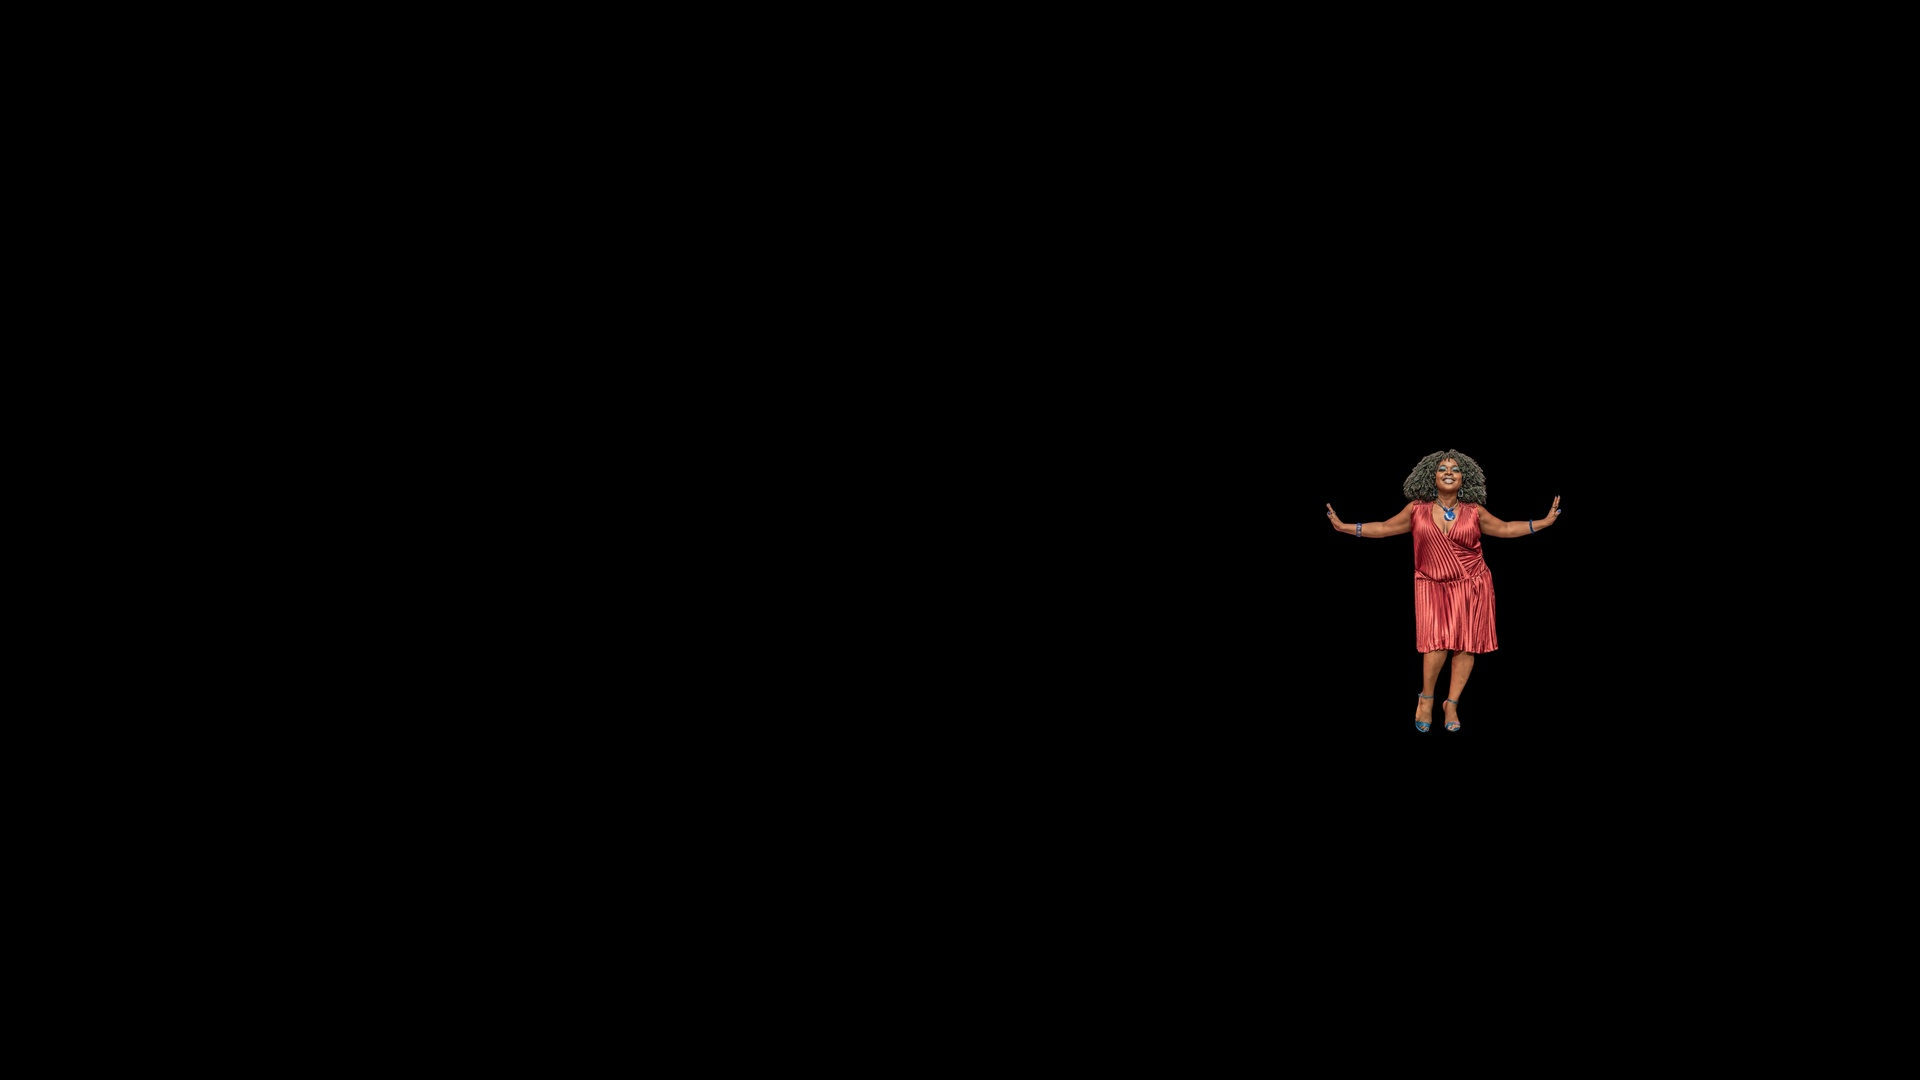
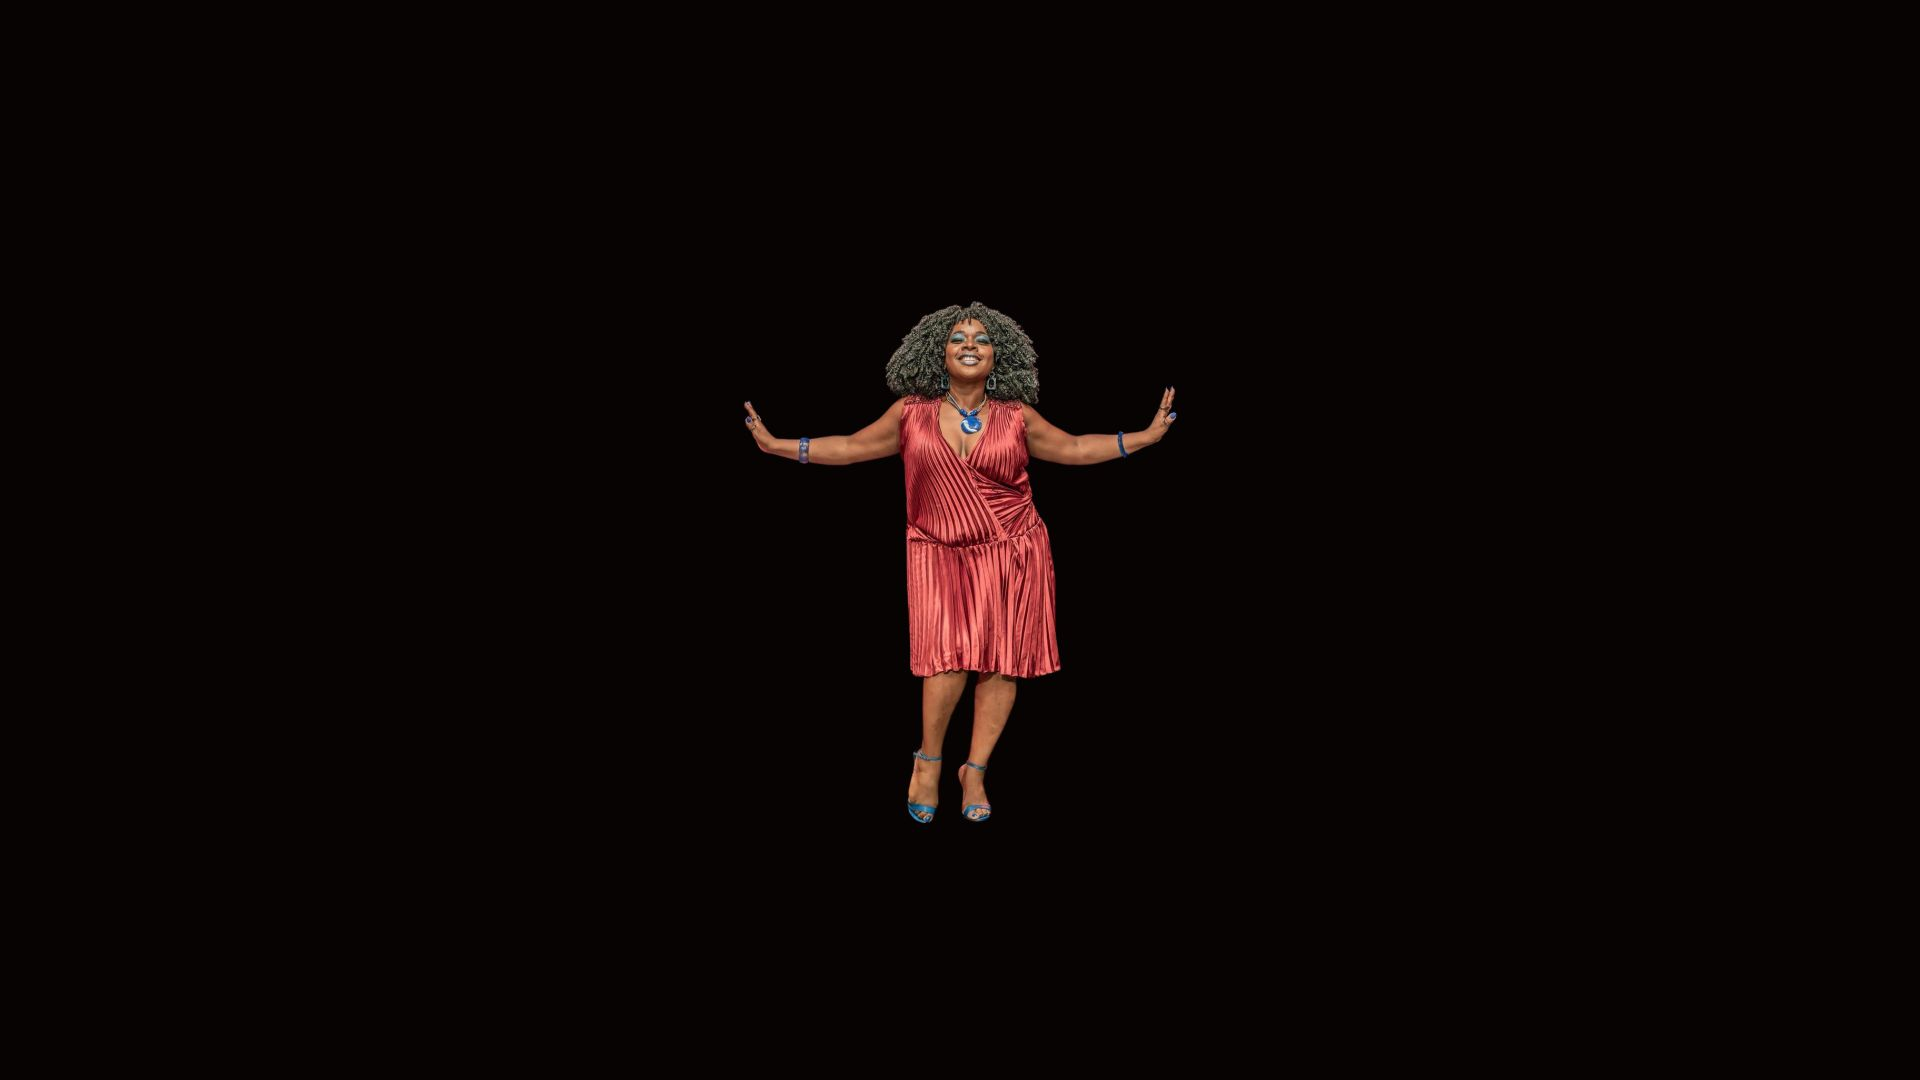
feat: implementar foto oficial do header de Denise Correia e navegacao circular infinita em loop nas edicoes

Changed region(s): [[0.375, 0.275, 0.625, 0.7639], [0.6875, 0.3972, 0.8125, 0.6722]]

diff --git a/src/data/edicaoNav.js b/src/data/edicaoNav.js
@@ -16,49 +16,23 @@ export function getEditionNav(allEdicoes, currentSlug, isExposition = false) {
     return { prev: null, next: null, filtered, currentIndex };
   }
 
-  const prevEdition = currentIndex > 0 ? filtered[currentIndex - 1] : null;
+  const prevEdition =
+    currentIndex > 0 ? filtered[currentIndex - 1] : filtered[filtered.length - 1];
   const nextEdition =
-    currentIndex < filtered.length - 1 ? filtered[currentIndex + 1] : null;
+    currentIndex < filtered.length - 1 ? filtered[currentIndex + 1] : filtered[0];
 
-  if (isExposition) {
-    return {
-      filtered,
-      currentIndex,
-      prev: prevEdition
-        ? {
-            href: `/movimento-irun/${prevEdition.slug}`,
-            label: 'Exposição Anterior',
-          }
-        : null,
-      next: nextEdition
-        ? {
-            href: `/movimento-irun/${nextEdition.slug}`,
-            label: 'Próxima Exposição',
-          }
-        : null,
-    };
-  }
+  const labelPrefix = isExposition ? 'Exposição' : 'Edição';
 
   return {
     filtered,
     currentIndex,
-    prev: prevEdition
-      ? {
-          href: `/movimento-irun/${prevEdition.slug}`,
-          label: 'Edição Anterior',
-        }
-      : {
-          href: EDICOES_LIST_URL,
-          label: 'Todas as Edições',
-        },
-    next: nextEdition
-      ? {
-          href: `/movimento-irun/${nextEdition.slug}`,
-          label: 'Próxima Edição',
-        }
-      : {
-          href: EDICOES_LIST_URL,
-          label: 'Todas as Edições',
-        },
+    prev: {
+      href: `/movimento-irun/${prevEdition.slug}`,
+      label: `${labelPrefix} Anterior (${prevEdition.num || prevEdition.titulo})`,
+    },
+    next: {
+      href: `/movimento-irun/${nextEdition.slug}`,
+      label: `Próxima ${labelPrefix} (${nextEdition.num || nextEdition.titulo})`,
+    },
   };
 }
